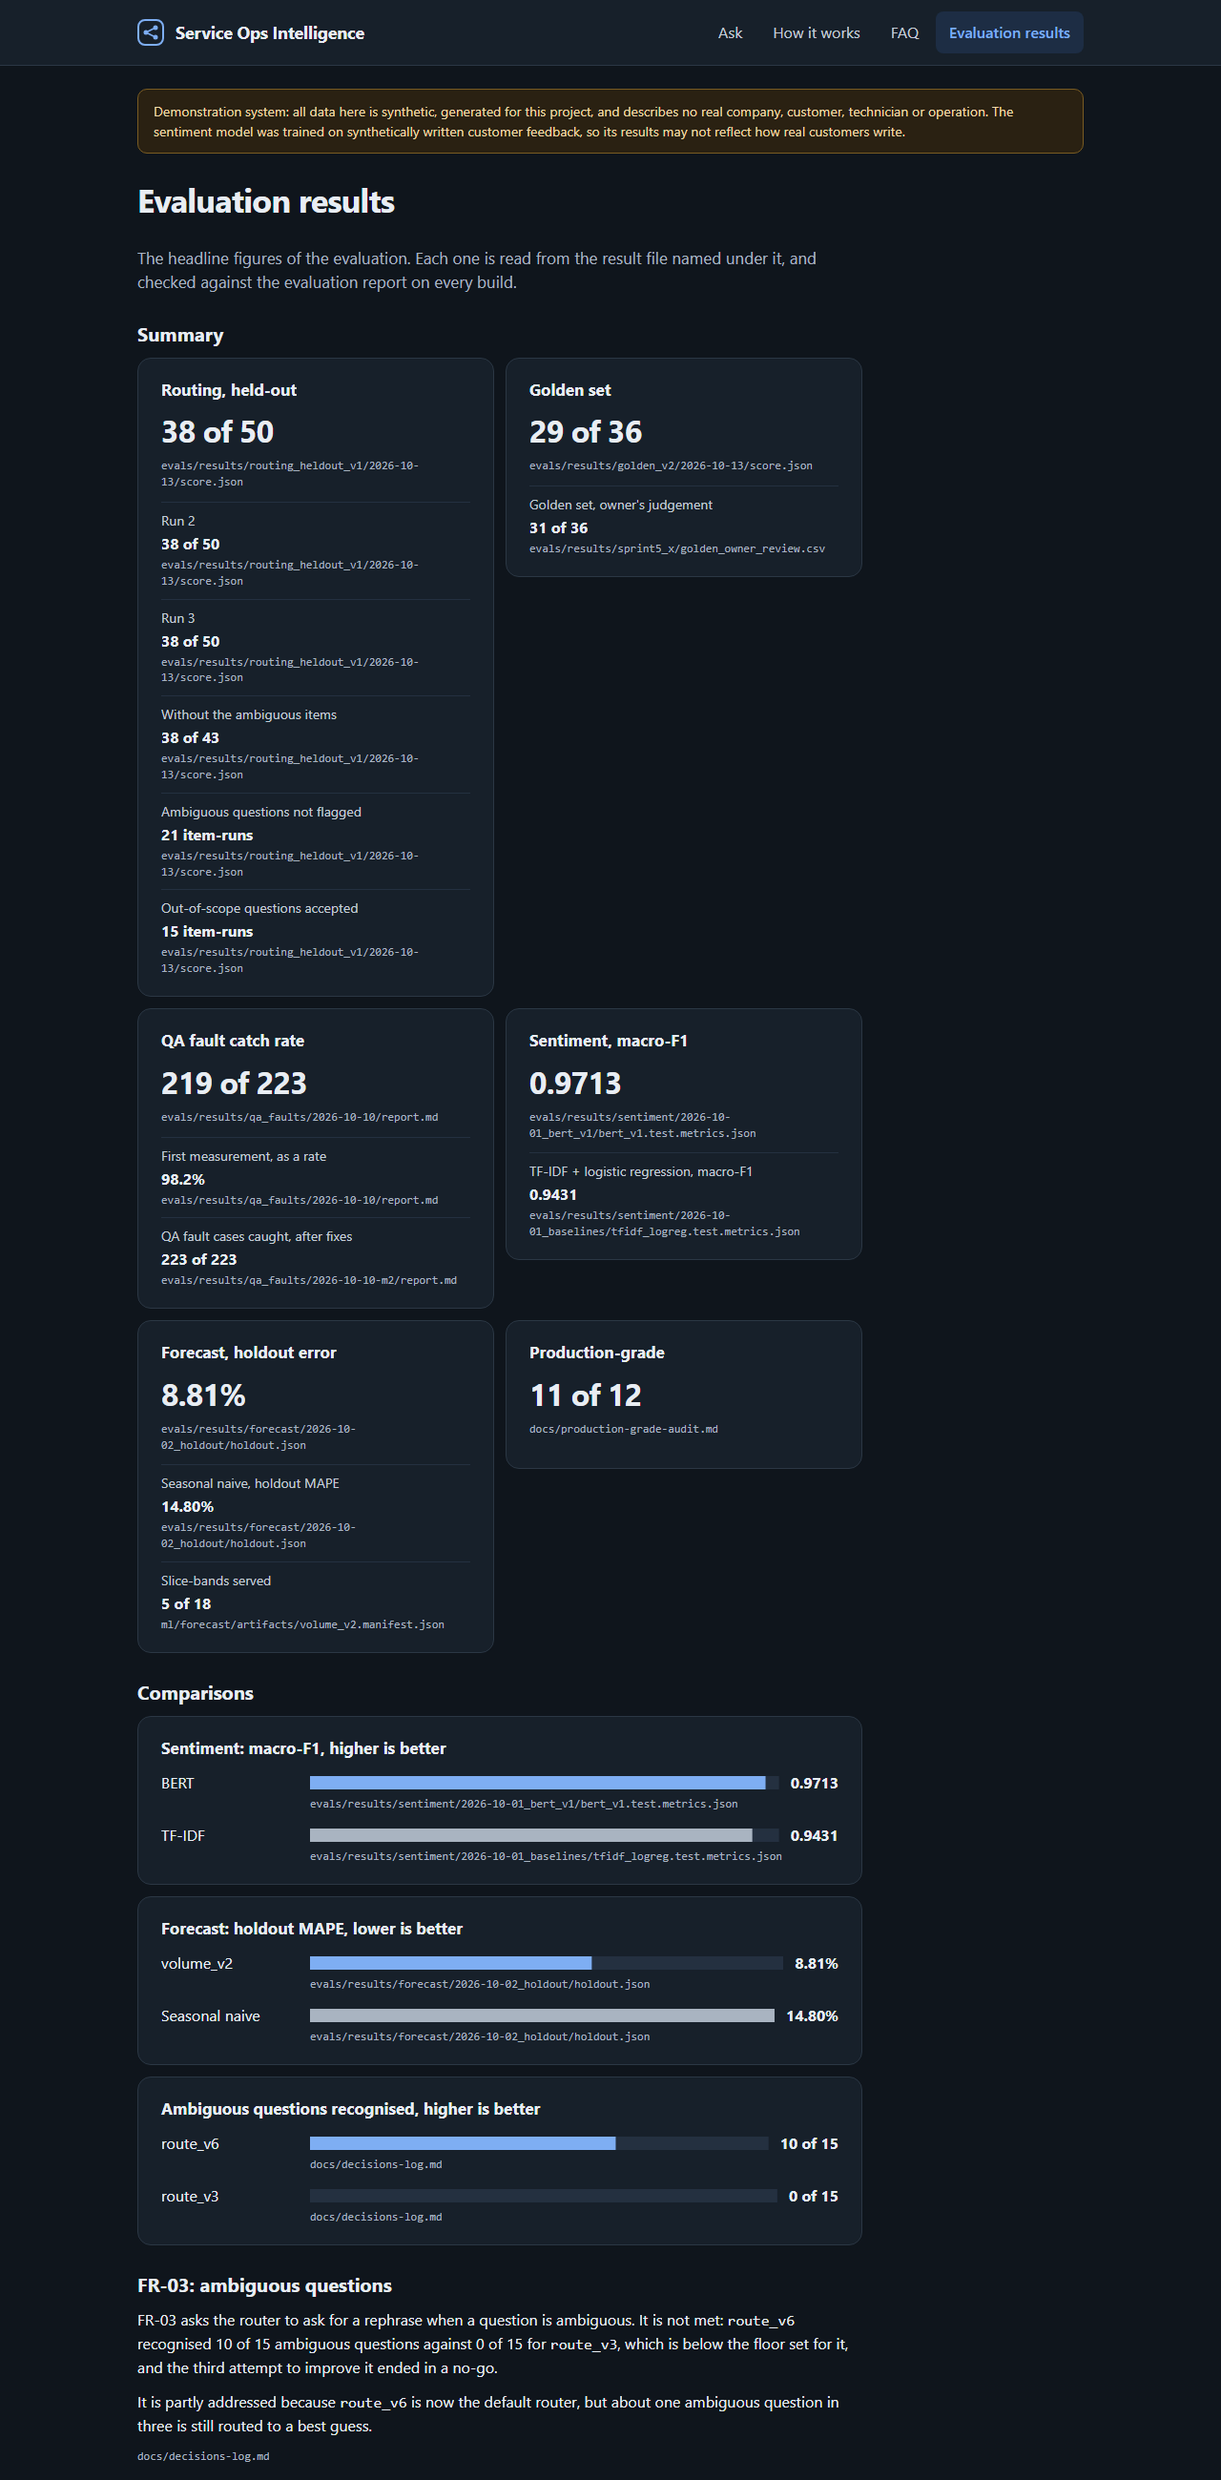
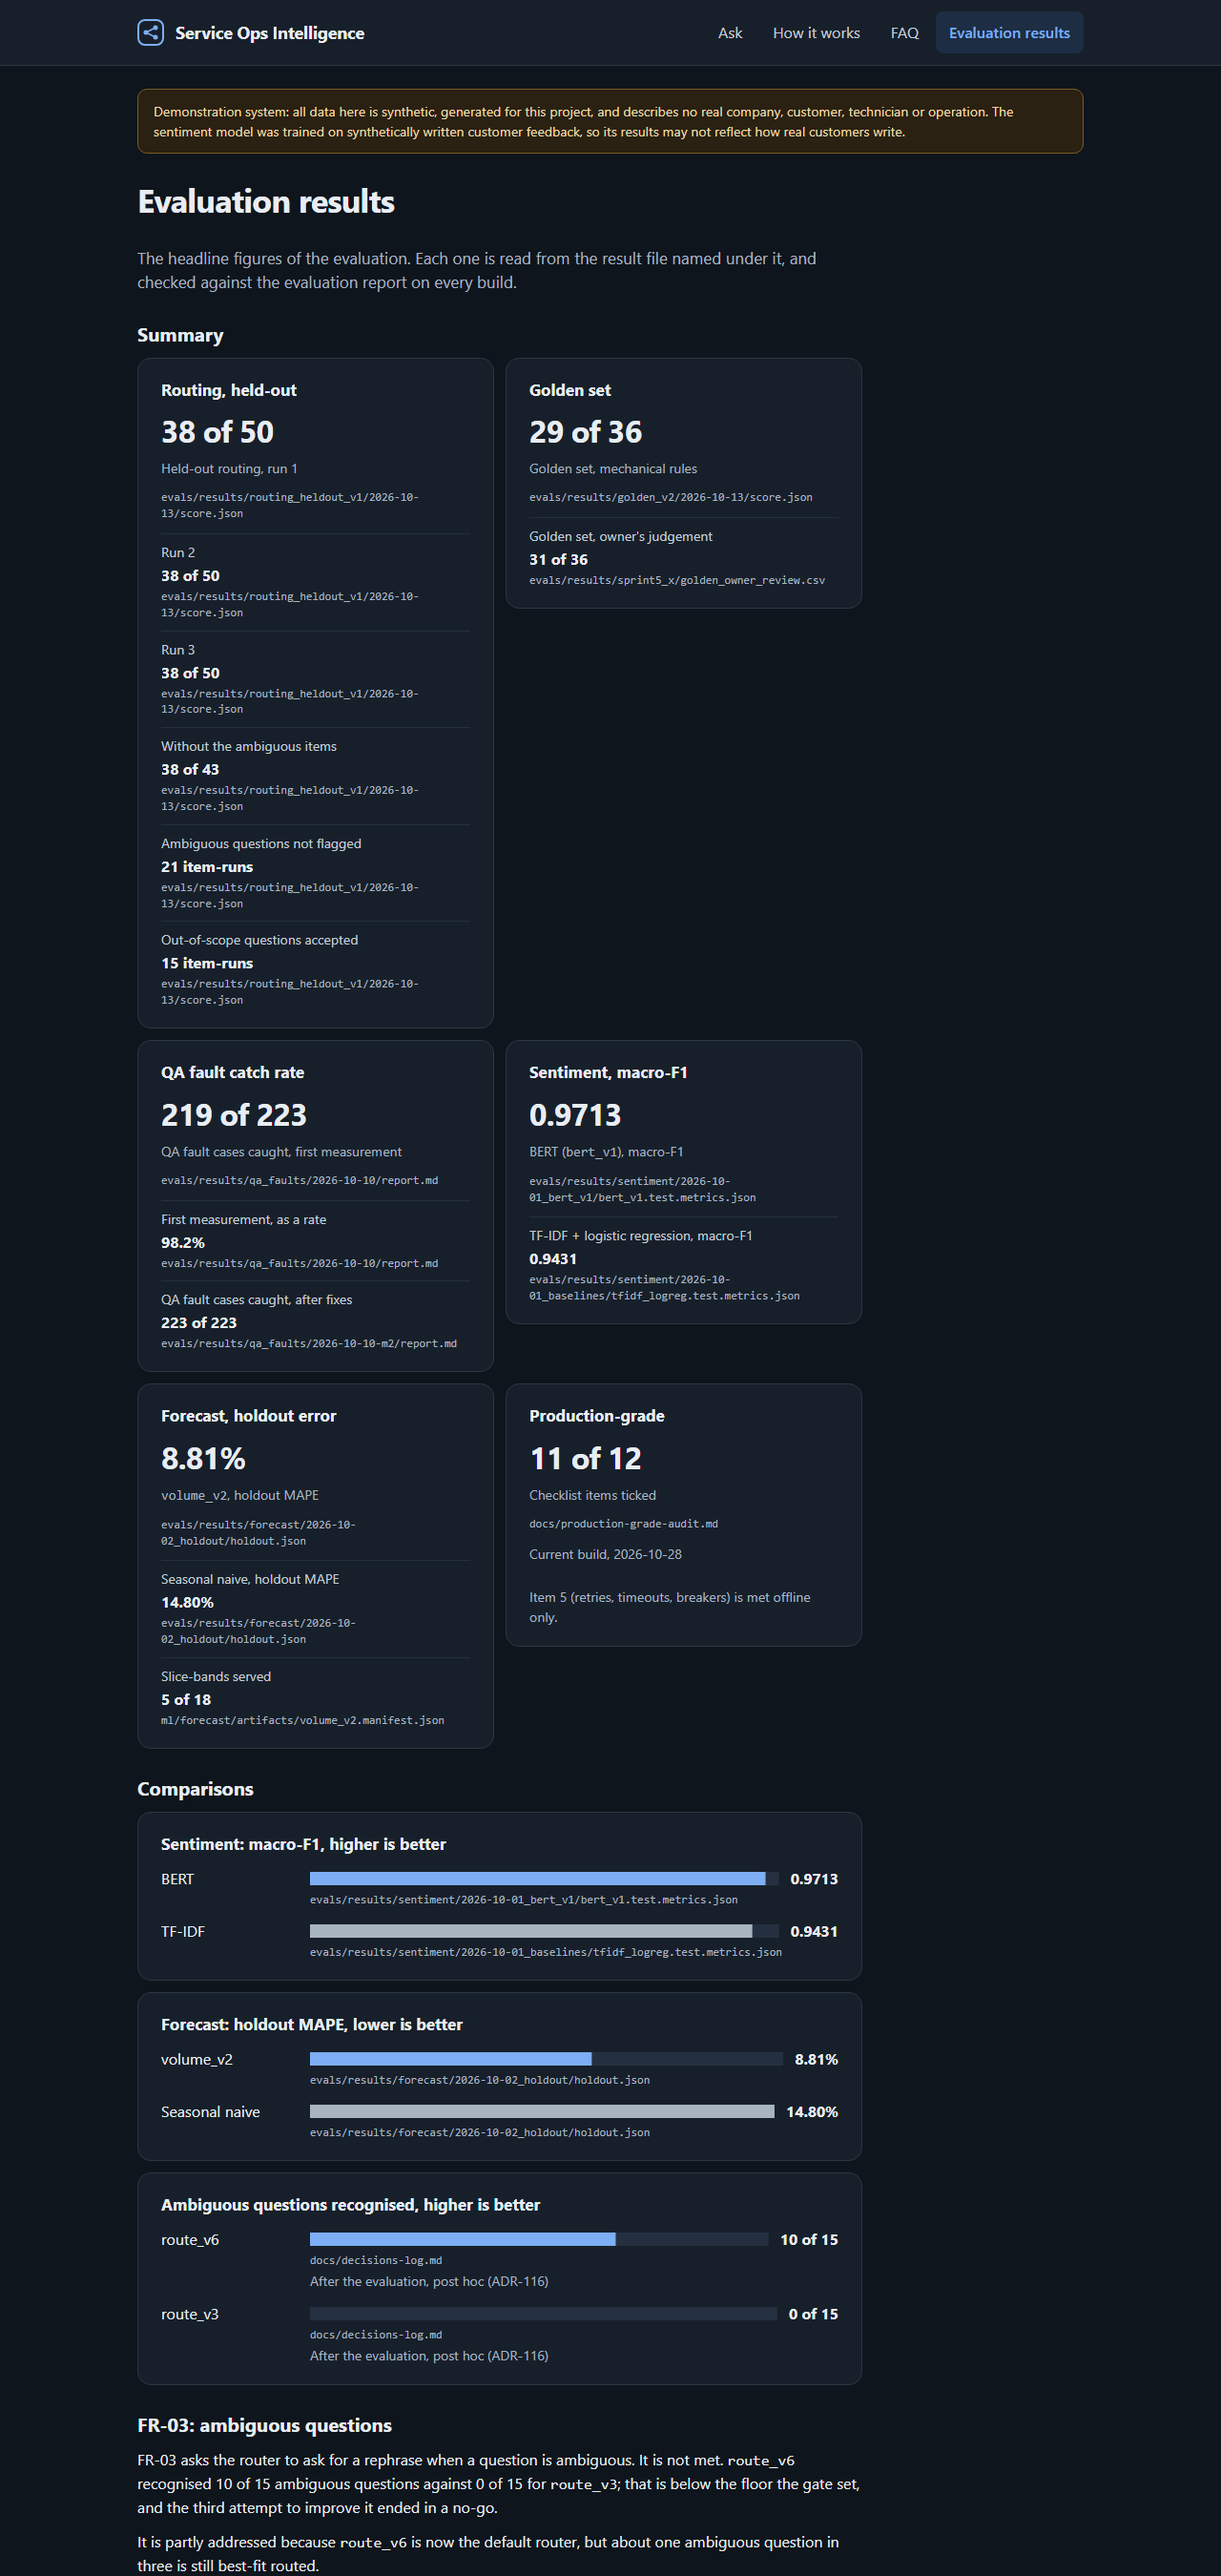
fix: results page - scope tags, headline labels, FR-03 wording

Changed region(s): [[0.0938, 0.0, 0.875, 1.0], [0.4375, 0.405, 0.625, 0.4985], [0.4375, 0.5296, 0.5625, 0.6231]]

diff --git a/web/app/results/page.jsx b/web/app/results/page.jsx
@@ -22,6 +22,16 @@ const CAVEATS = [
   "These figures describe the evaluated Sprint 5 system unless marked otherwise.",
 ];
 
+// Rule 11's fixed strings. A figure whose scope is not "evaluated" carries one of these tags.
+const TAGS = {
+  current: "Current build, 2026-10-28",
+  post_hoc: "After the evaluation, post hoc (ADR-116)",
+  project: "Whole project, 2026-10-01 to 10-28",
+};
+const ITEM_5 = "Item 5 (retries, timeouts, breakers) is met offline only.";
+
+const tagOf = (id) => TAGS[F[id].scope];
+
 function inline(text) {
   return text.split("`").map((part, i) => (i % 2 ? <code key={i}>{part}</code> : part));
 }
@@ -30,22 +40,26 @@ function Stat({ id, label }) {
   const f = F[id];
   return (
     <div className="stat">
-      <dt>{label ?? f.label}</dt>
+      <dt>{label ?? inline(f.label)}</dt>
       <dd>
         <strong>{f.text}</strong>
         <code className="src">{f.source}</code>
+        {tagOf(id) && <span className="small muted">{tagOf(id)}</span>}
       </dd>
     </div>
   );
 }
 
-function Card({ title, headline, children }) {
+function Card({ title, headline, note, children }) {
   return (
     <section className="card card-pad stat-card">
       <h3>{title}</h3>
       <p className="stat-headline">{F[headline].text}</p>
+      <span className="small muted">{inline(F[headline].label)}</span>
       <code className="src">{F[headline].source}</code>
+      {tagOf(headline) && <span className="small muted">{tagOf(headline)}</span>}
       <dl className="stats">{children}</dl>
+      {note && <p className="small muted">{note}</p>}
     </section>
   );
 }
@@ -87,7 +101,7 @@ export default function Results() {
             <Stat id="forecast_holdout_seasonal_naive" />
             <Stat id="forecast_served" />
           </Card>
-          <Card title="Production-grade" headline="production_grade" />
+          <Card title="Production-grade" headline="production_grade" note={ITEM_5} />
         </div>
       </section>
 
@@ -105,22 +119,22 @@ export default function Results() {
         </div>
         <div className="card card-pad bars">
           <h3>Ambiguous questions recognised, higher is better</h3>
-          <Bar label="route_v6" text={F.fr03_route_v6.text} {...fraction("fr03_route_v6")} source={F.fr03_route_v6.source} />
-          <Bar label="route_v3" text={F.fr03_route_v3.text} {...fraction("fr03_route_v3")} source={F.fr03_route_v3.source} base />
+          <Bar label="route_v6" text={F.fr03_route_v6.text} {...fraction("fr03_route_v6")} source={F.fr03_route_v6.source} tag={tagOf("fr03_route_v6")} />
+          <Bar label="route_v3" text={F.fr03_route_v3.text} {...fraction("fr03_route_v3")} source={F.fr03_route_v3.source} tag={tagOf("fr03_route_v3")} base />
         </div>
       </section>
 
       <section>
         <h2>FR-03: ambiguous questions</h2>
         <p>
-          FR-03 asks the router to ask for a rephrase when a question is ambiguous. It is not met:{" "}
+          FR-03 asks the router to ask for a rephrase when a question is ambiguous. It is not met.{" "}
           <code>route_v6</code> recognised {F.fr03_route_v6.text} ambiguous questions against{" "}
-          {F.fr03_route_v3.text} for <code>route_v3</code>, which is below the floor set for it, and
-          the third attempt to improve it ended in a {F.fr03_third_attempt.text}.
+          {F.fr03_route_v3.text} for <code>route_v3</code>; that is below the floor the gate set,
+          and the third attempt to improve it ended in a {F.fr03_third_attempt.text}.
         </p>
         <p>
           It is partly addressed because <code>route_v6</code> is now the default router, but about
-          one ambiguous question in three is still routed to a best guess.
+          one ambiguous question in three is still best-fit routed.
         </p>
         <p className="small muted">
           <code className="src">{F.fr03_route_v6.source}</code>

diff --git a/web/app/globals.css b/web/app/globals.css
@@ -474,7 +474,7 @@ button.example:hover { border-color: var(--accent); background: var(--accent-tin
   align-items: center;
   gap: 2px 12px;
 }
-.bar-row .src { grid-column: 2 / -1; }
+.bar-row .src, .bar-row .bar-tag { grid-column: 2 / -1; }
 .bar { width: 100%; height: 14px; display: block; }
 .bar-track { fill: var(--divider); }
 .bar-fill { fill: var(--accent); }
@@ -486,7 +486,7 @@ button.example:hover { border-color: var(--accent); background: var(--accent-tin
 @media (max-width: 480px) {
   .bar-row { grid-template-columns: minmax(0, 1fr) auto; }
   .bar-label { grid-column: 1 / -1; }
-  .bar-row .src { grid-column: 1 / -1; }
+  .bar-row .src, .bar-row .bar-tag { grid-column: 1 / -1; }
   .site-header-inner { padding: 12px 16px; }
   .shell { padding: 24px 16px 64px; }
 }

diff --git a/web/app/components/Bar.jsx b/web/app/components/Bar.jsx
@@ -5,7 +5,7 @@
 const BAR_WIDTH = 100;
 const BAR_HEIGHT = 10;
 
-export default function Bar({ label, text, value, max, source, base = false }) {
+export default function Bar({ label, text, value, max, source, tag, base = false }) {
   const width = max > 0 ? (value / max) * BAR_WIDTH : 0;
   return (
     <div className="bar-row">
@@ -22,6 +22,7 @@ export default function Bar({ label, text, value, max, source, base = false }) {
       </svg>
       <strong className="bar-num">{text}</strong>
       <code className="src">{source}</code>
+      {tag && <span className="small muted bar-tag">{tag}</span>}
     </div>
   );
 }

diff --git a/tests/unit/test_ui_source.py b/tests/unit/test_ui_source.py
@@ -315,3 +315,35 @@ def test_the_results_page_links_the_report_and_draws_bars_without_inline_styles(
     bar = source("components", "Bar.jsx")
     assert "<svg" in bar and "style=" not in page + bar
     assert "<strong" in bar  # the number is written beside the bar
+
+
+def test_rule_11_tag_strings_are_in_the_page_once_each_and_in_the_dictionary():
+    page = RESULTS_PAGE.read_text(encoding="utf-8")
+    text = rule(11)
+    fixed = text.split("**The page also states these fixed strings:**", 1)[1]
+    strings = re.findall(r'"([^"]+)"', fixed)
+    assert strings == [
+        "Current build, 2026-10-28",
+        "After the evaluation, post hoc (ADR-116)",
+        "Whole project, 2026-10-01 to 10-28",
+        "Item 5 (retries, timeouts, breakers) is met offline only.",
+    ]
+    for string in strings:
+        assert page.count(f'"{string}"') == 1, string
+
+
+def test_every_card_headline_renders_its_label():
+    page = RESULTS_PAGE.read_text(encoding="utf-8")
+    assert "{inline(F[headline].label)}" in page
+    figures = json.loads((ROOT / "web" / "data" / "results.json").read_text(encoding="utf-8"))
+    headlines = re.findall(r'headline="(\w+)"', page)
+    assert len(headlines) == 6
+    for fid in headlines:
+        assert figures["figures"][fid]["label"], fid
+
+
+def test_a_figure_not_from_the_evaluated_system_is_tagged_where_it_is_shown():
+    page = RESULTS_PAGE.read_text(encoding="utf-8")
+    assert "tagOf(headline)" in page and "tagOf(id)" in page
+    assert page.count("tag={tagOf(") == 2  # the two FR-03 bars
+    assert "tag" in source("components", "Bar.jsx")

diff --git a/tests/unit/test_results_data.py b/tests/unit/test_results_data.py
@@ -184,3 +184,17 @@ def test_a_changed_source_would_be_caught(tmp_path, monkeypatch):
     (root / script.ROUTING).write_text(json.dumps(altered), encoding="utf-8")
     monkeypatch.setattr(script, "ROOT", root)
     assert script.build() != text_of("web/data/results.json")
+
+
+SCOPE_TAGS = {
+    "production_grade": "current",
+    "fr03_route_v6": "post_hoc",
+    "fr03_route_v3": "post_hoc",
+    "cost_gcp": "project",
+}
+
+
+def test_every_figure_has_one_of_the_four_scopes_and_the_marked_ones_are_these():
+    assert {f["scope"] for f in FIGURES.values()} <= {"evaluated", "current", "post_hoc", "project"}
+    for fid, entry in FIGURES.items():
+        assert entry["scope"] == SCOPE_TAGS.get(fid, "evaluated"), fid

diff --git a/scripts/build_results_data.py b/scripts/build_results_data.py
@@ -352,11 +352,21 @@ def build_figures() -> dict[str, dict]:
     return figs
 
 
+SCOPES = {
+    "production_grade": "current",
+    "fr03_route_v6": "post_hoc",
+    "fr03_route_v3": "post_hoc",
+    "cost_gcp": "project",
+}
+
+
 def build() -> str:
     document = {
         "report": REPORT,
         "note": "Generated by scripts/build_results_data.py (data dictionary section 6, rule 11).",
-        "figures": build_figures(),
+        "figures": {
+            fid: {**f, "scope": SCOPES.get(fid, "evaluated")} for fid, f in build_figures().items()
+        },
     }
     return json.dumps(document, indent=2, sort_keys=True, ensure_ascii=False) + "\n"
 

diff --git a/docs/data-dictionary.md b/docs/data-dictionary.md
@@ -568,7 +568,8 @@ Clicking an example fills the input and does not submit it. Each example is chec
 - its source file's path;
 - that file's SHA-256, taken with line endings normalised to LF (a checkout on Windows and one on Linux then agree). For the three living documents that gain entries all the time (`docs/decisions-log.md`, `docs/sprint-log.md` and `docs/production-grade-audit.md`), it is the SHA-256 of the quoted line instead, so an unrelated entry does not break the build;
 - a locator: a JSON pointer for a JSON file, an exact quoted line for a Markdown file, or a stated count for a CSV;
-- the evaluation report section that cites it.
+- the evaluation report section that cites it;
+- its scope: the evaluated system, the current build, a post-hoc comparison, or the whole project; any figure not from the evaluated system is tagged on the page with a fixed string.
 
 **The UI computes nothing** except bar widths drawn from the figures shown. Every figure shows its source path in small type.
 
@@ -578,6 +579,12 @@ Clicking an example fills the input and does not submit it. Each example is chec
 - "QA's catch rate is an upper bound: its author drafted the faults."
 - "`route_v6`'s comparison was made after the results, on sets already used."
 - "These figures describe the evaluated Sprint 5 system unless marked otherwise."
+
+**The page also states these fixed strings:**
+- the tag on a figure from the current build: "Current build, 2026-10-28";
+- the tag on a post-hoc comparison: "After the evaluation, post hoc (ADR-116)";
+- the tag on a whole-project figure: "Whole project, 2026-10-01 to 10-28";
+- under the production-grade card: "Item 5 (retries, timeouts, breakers) is met offline only."
 
 The page links to the full evaluation report in the public repository.
 
